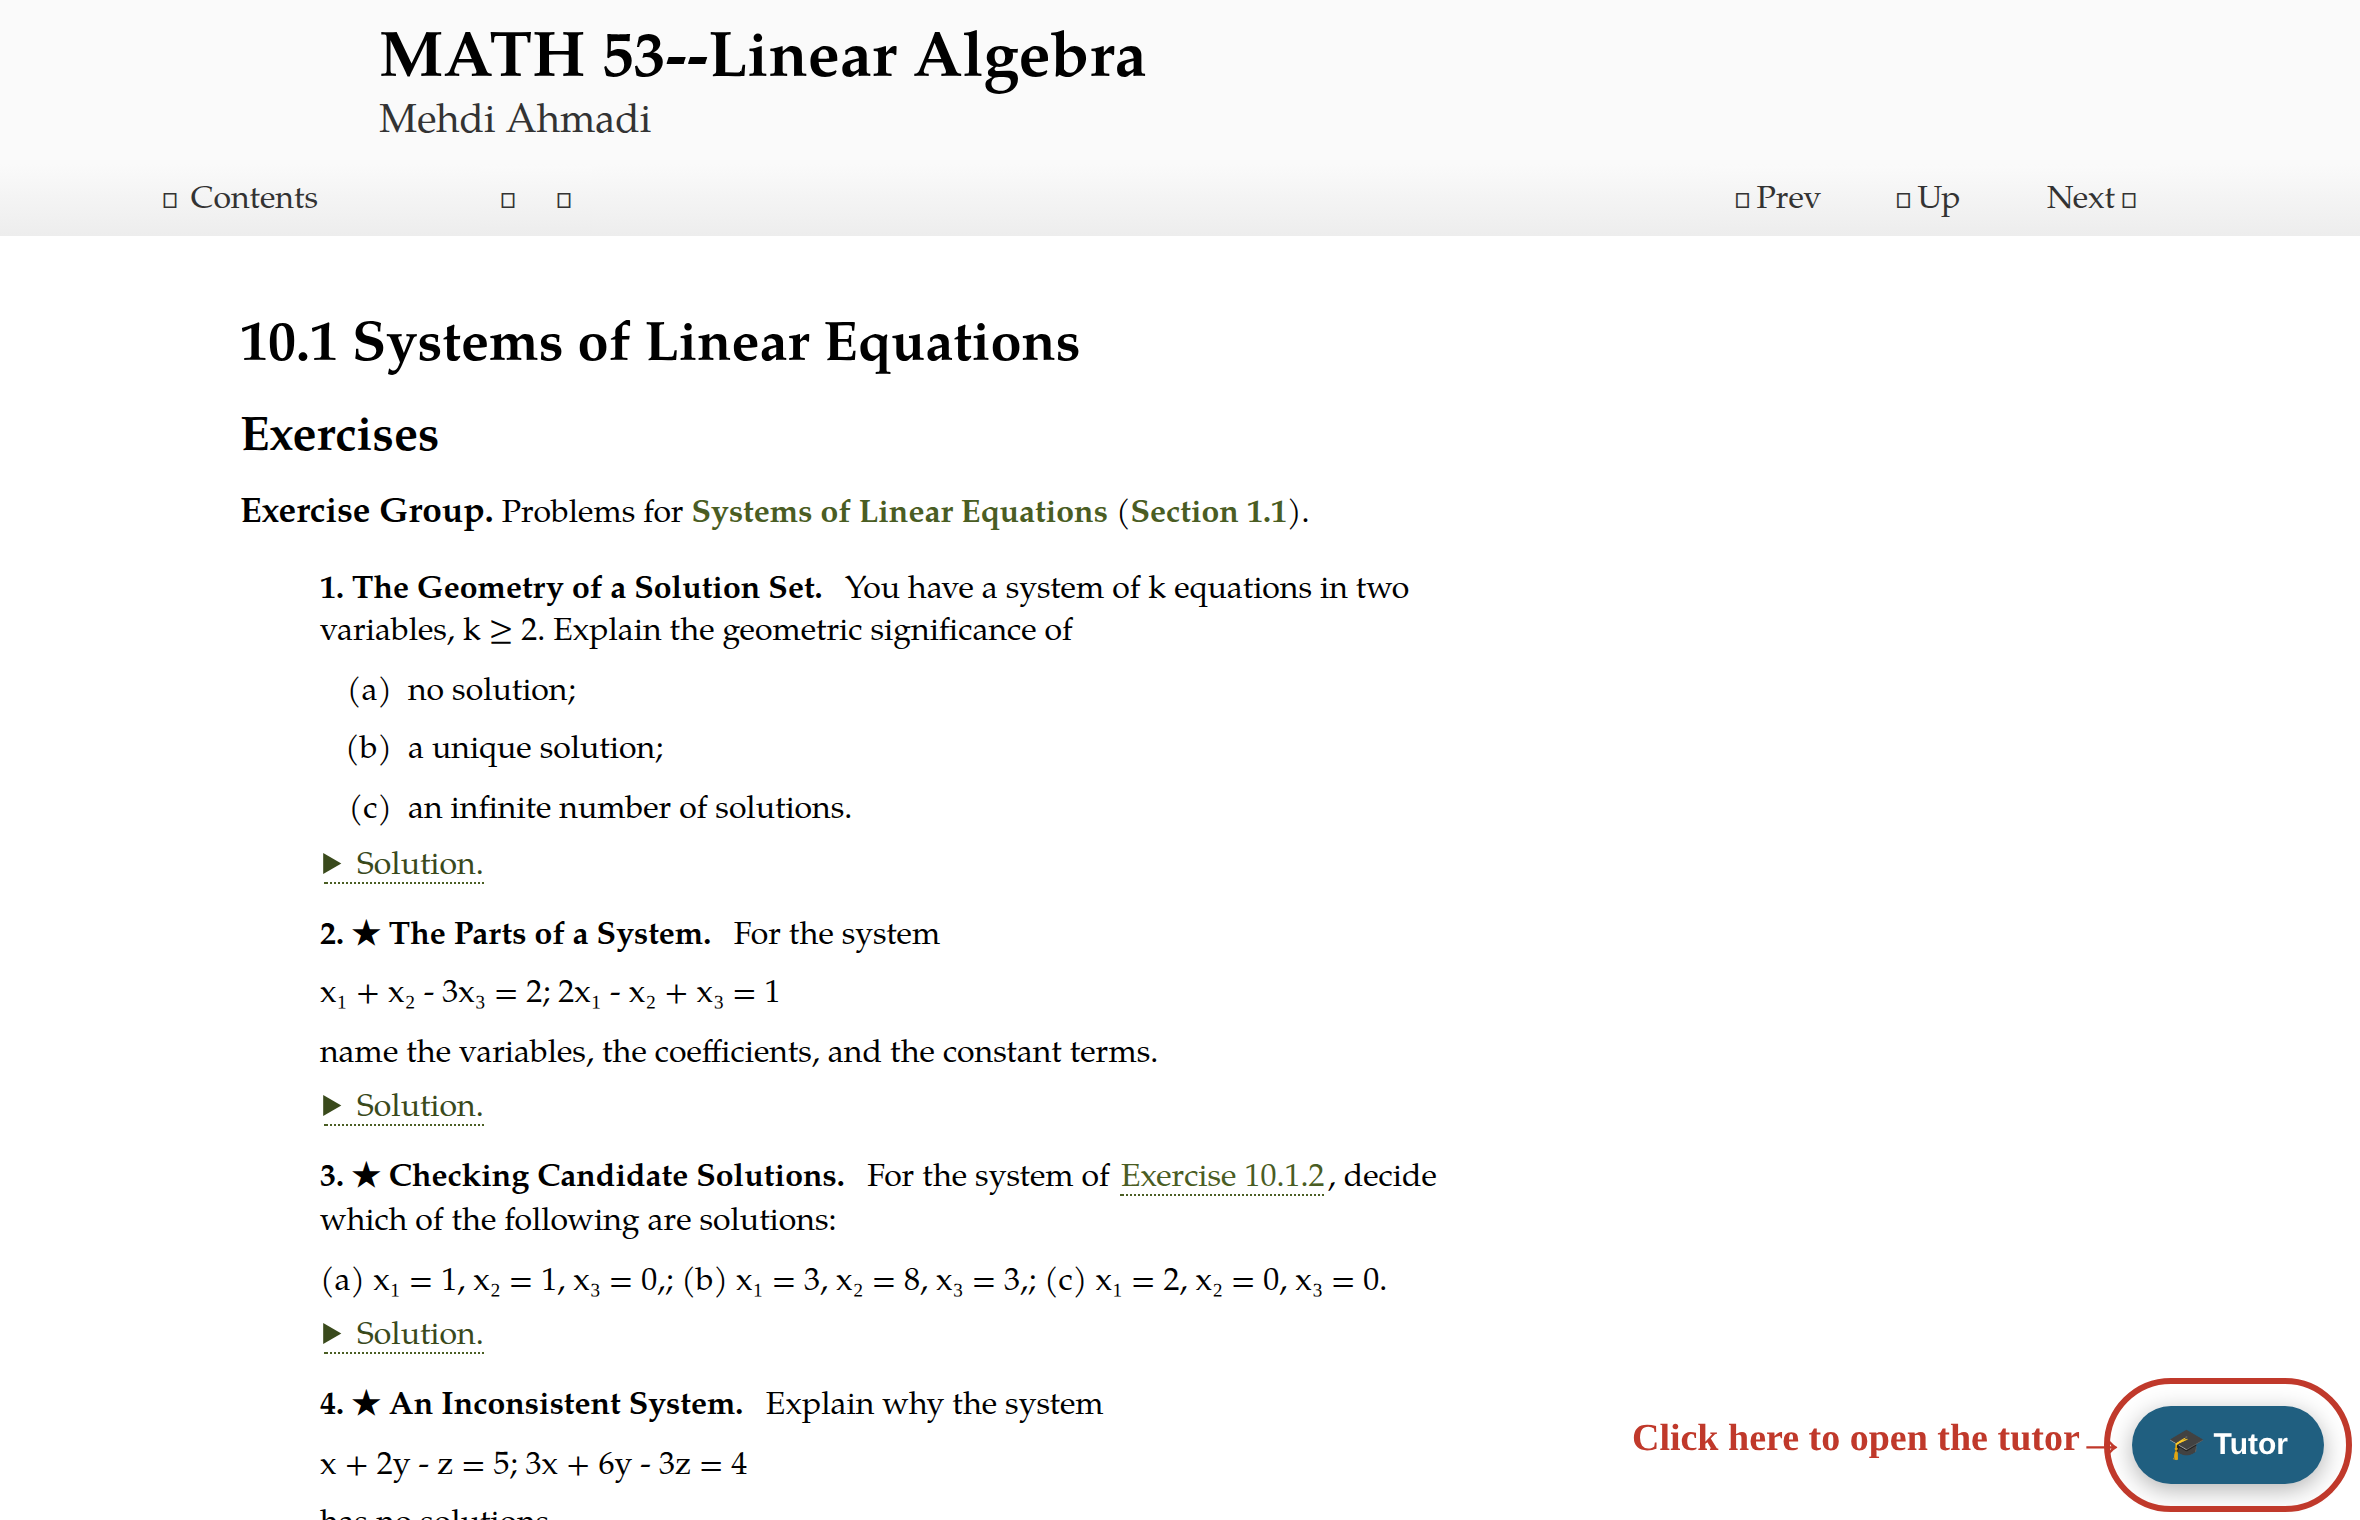
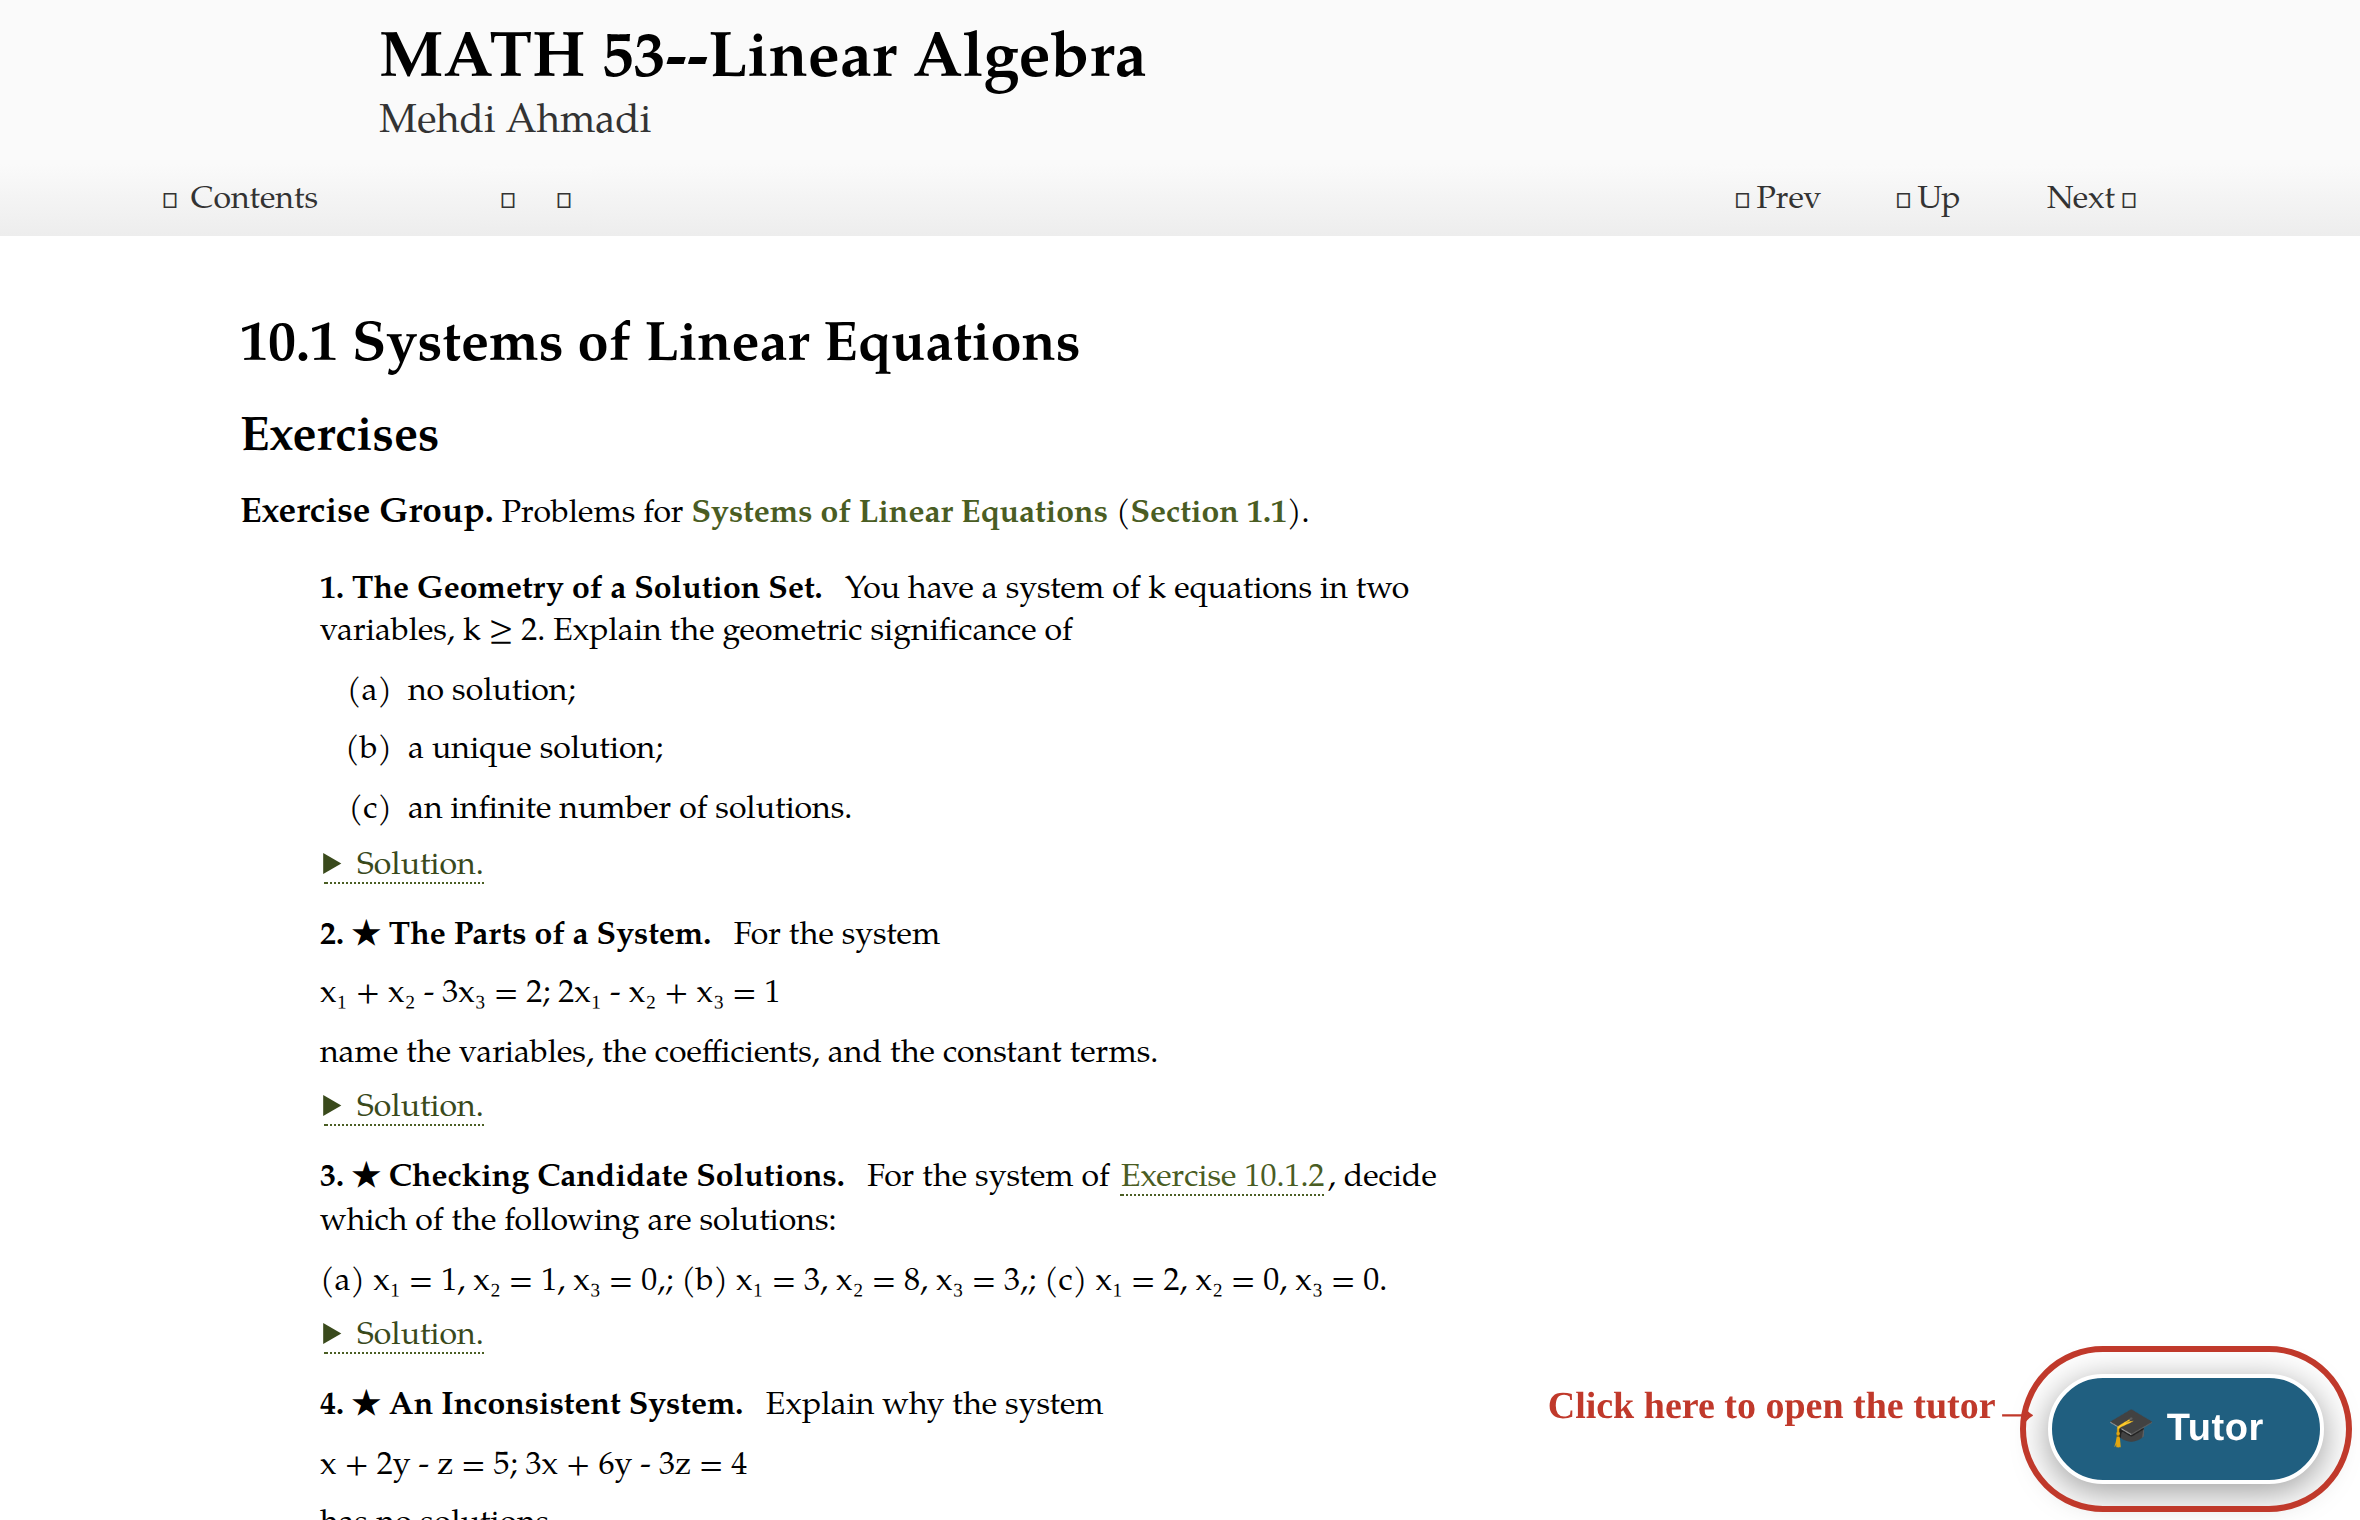
Box the tutor guide in one assemblage and enlarge the Tutor button
The instructions on the Problems chapter intro now render as a single
bordered block titled 'Using the AI Tutor' with run-in headings, both
screenshots, and the full hint rules. The floating Tutor button is
larger — bigger type, more padding, a white outline, and a stronger
shadow — with a slight hover scale; screenshots regenerated to match.

Claude-Session: https://claude.ai/code/session_01T3N92EA5WeGsg7NyLfVsWT

Changed region(s): [[0.6496, 0.8658, 1.0, 1.0]]

diff --git a/assets/custom.css b/assets/custom.css
@@ -195,16 +195,20 @@ html:root:not(.dark-mode) details.hiddenproof[open] > summary.knowl__link {
     right: 18px;
     bottom: 18px;
     z-index: 3000;
-    border: none;
+    border: 2px solid #fff;
     border-radius: 999px;
-    padding: 12px 18px;
-    font: 600 15px/1 "Open Sans", "Helvetica Neue", Arial, sans-serif;
+    padding: 16px 28px;
+    font: 700 19px/1 "Open Sans", "Helvetica Neue", Arial, sans-serif;
+    letter-spacing: 0.3px;
     background: #205f80;
     color: #fff;
     cursor: pointer;
-    box-shadow: 0 3px 12px rgba(0, 0, 0, 0.3);
+    box-shadow: 0 4px 18px rgba(0, 0, 0, 0.4);
 }
-#m53-tutor-fab:hover { background: #2b7aa3; }
+#m53-tutor-fab:hover { background: #2b7aa3; transform: scale(1.04); }
+@media (max-width: 600px) {
+    #m53-tutor-fab { padding: 13px 20px; font-size: 16px; }
+}
 
 #m53-tutor-panel {
     position: fixed;
